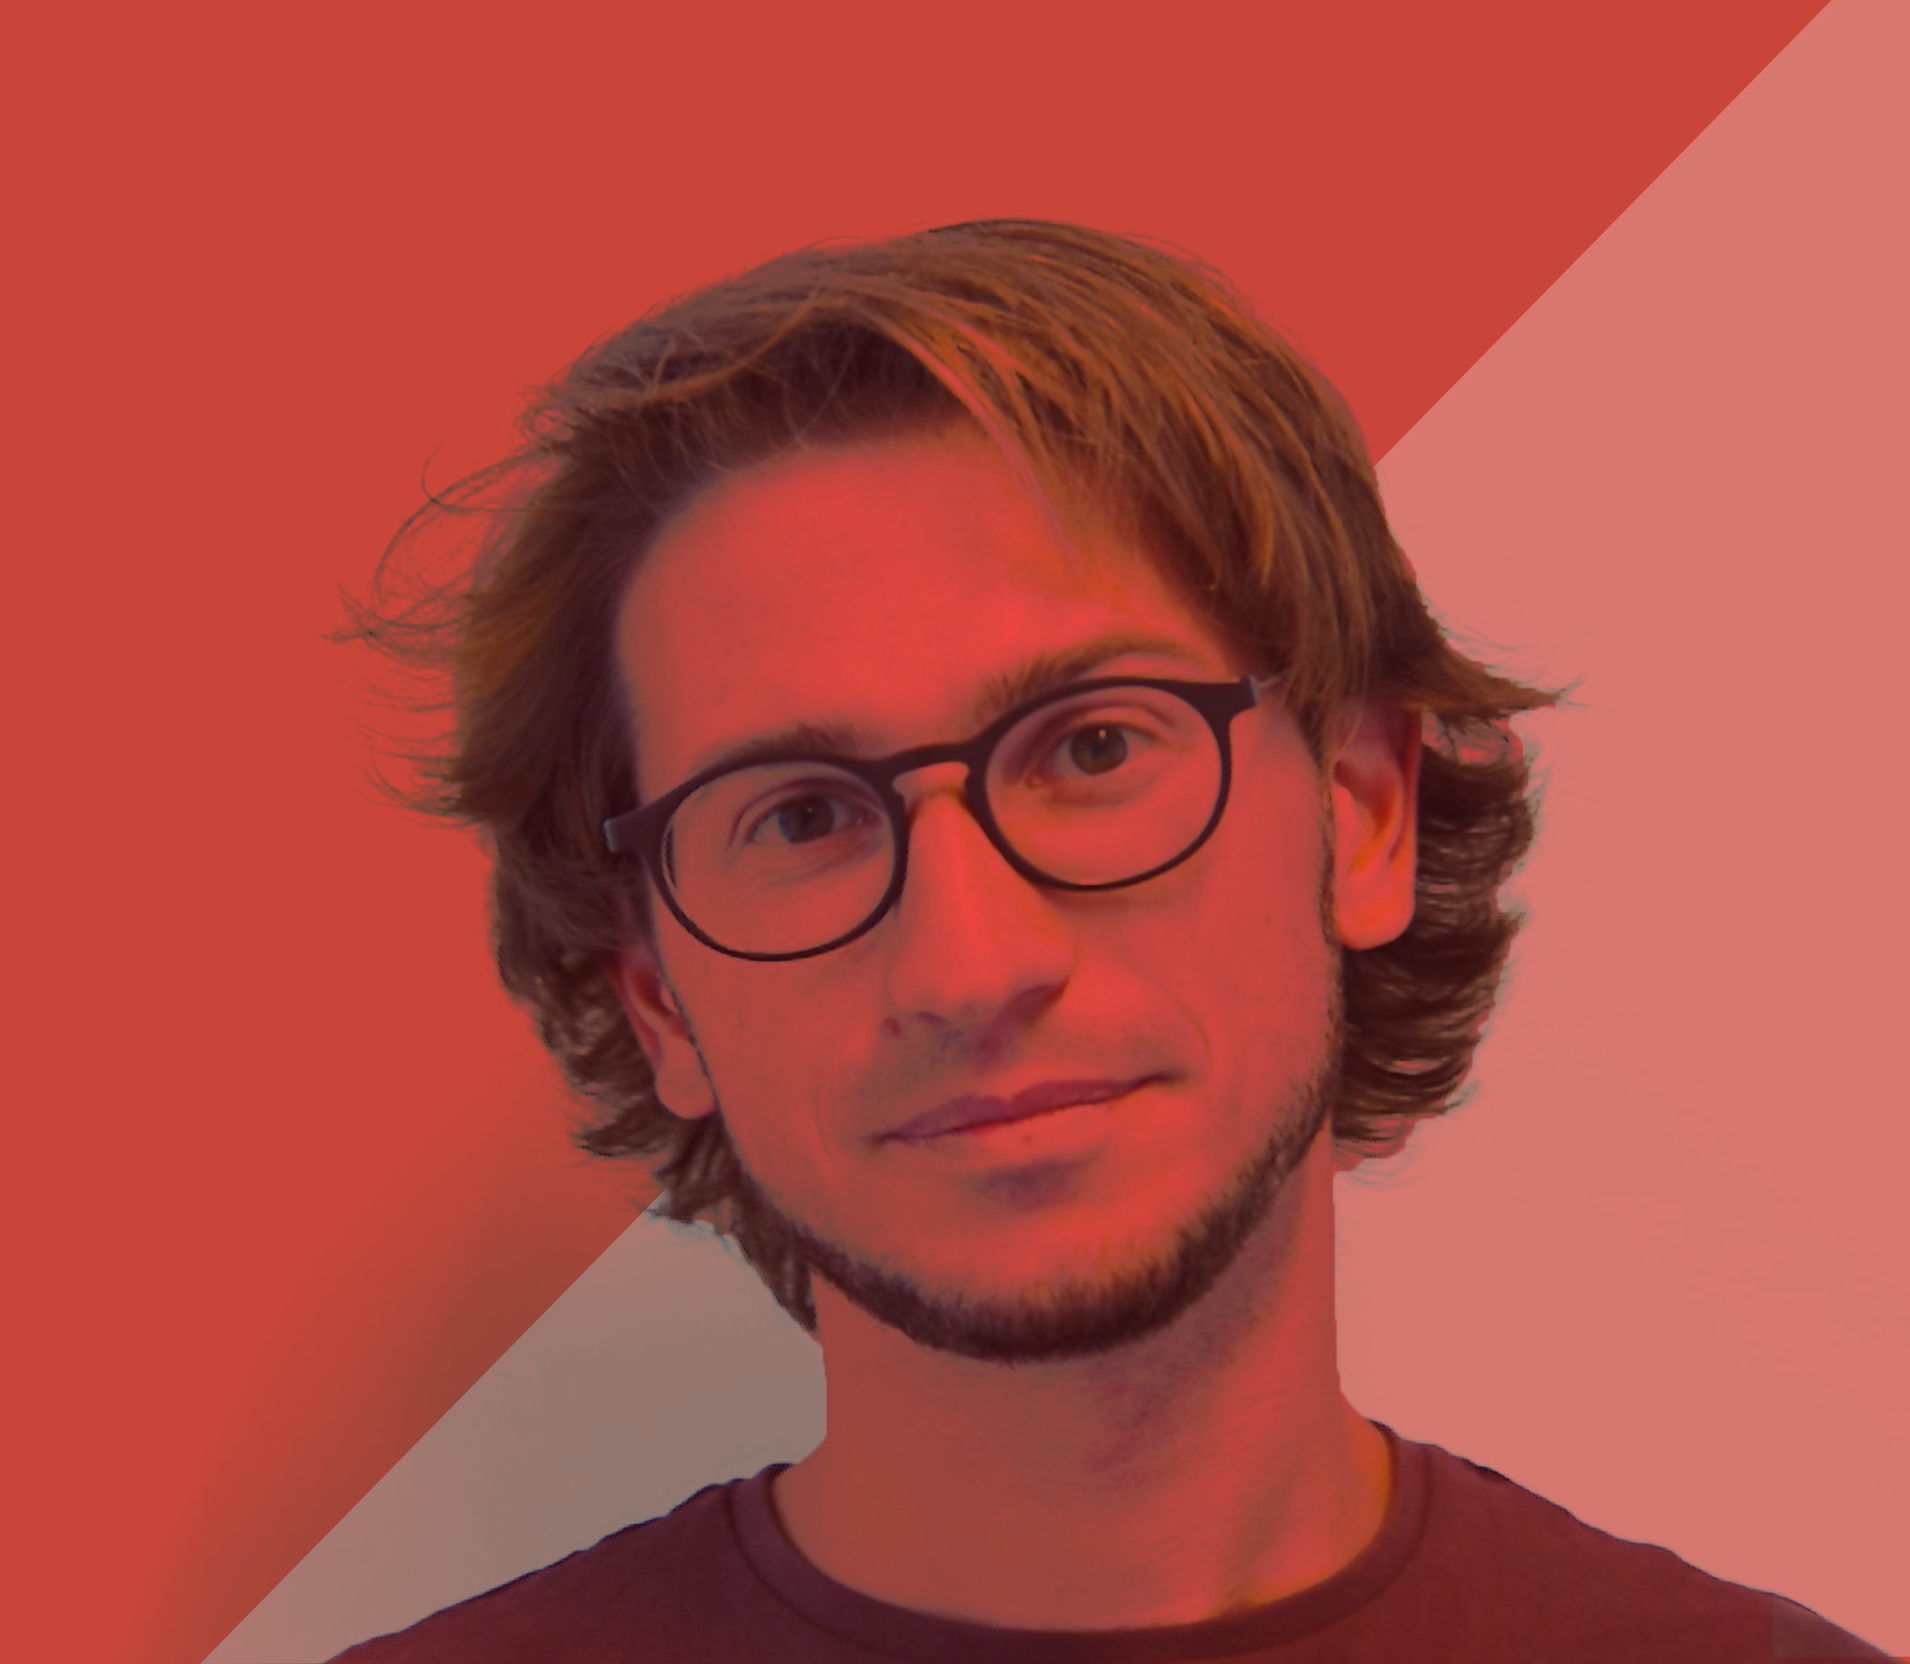
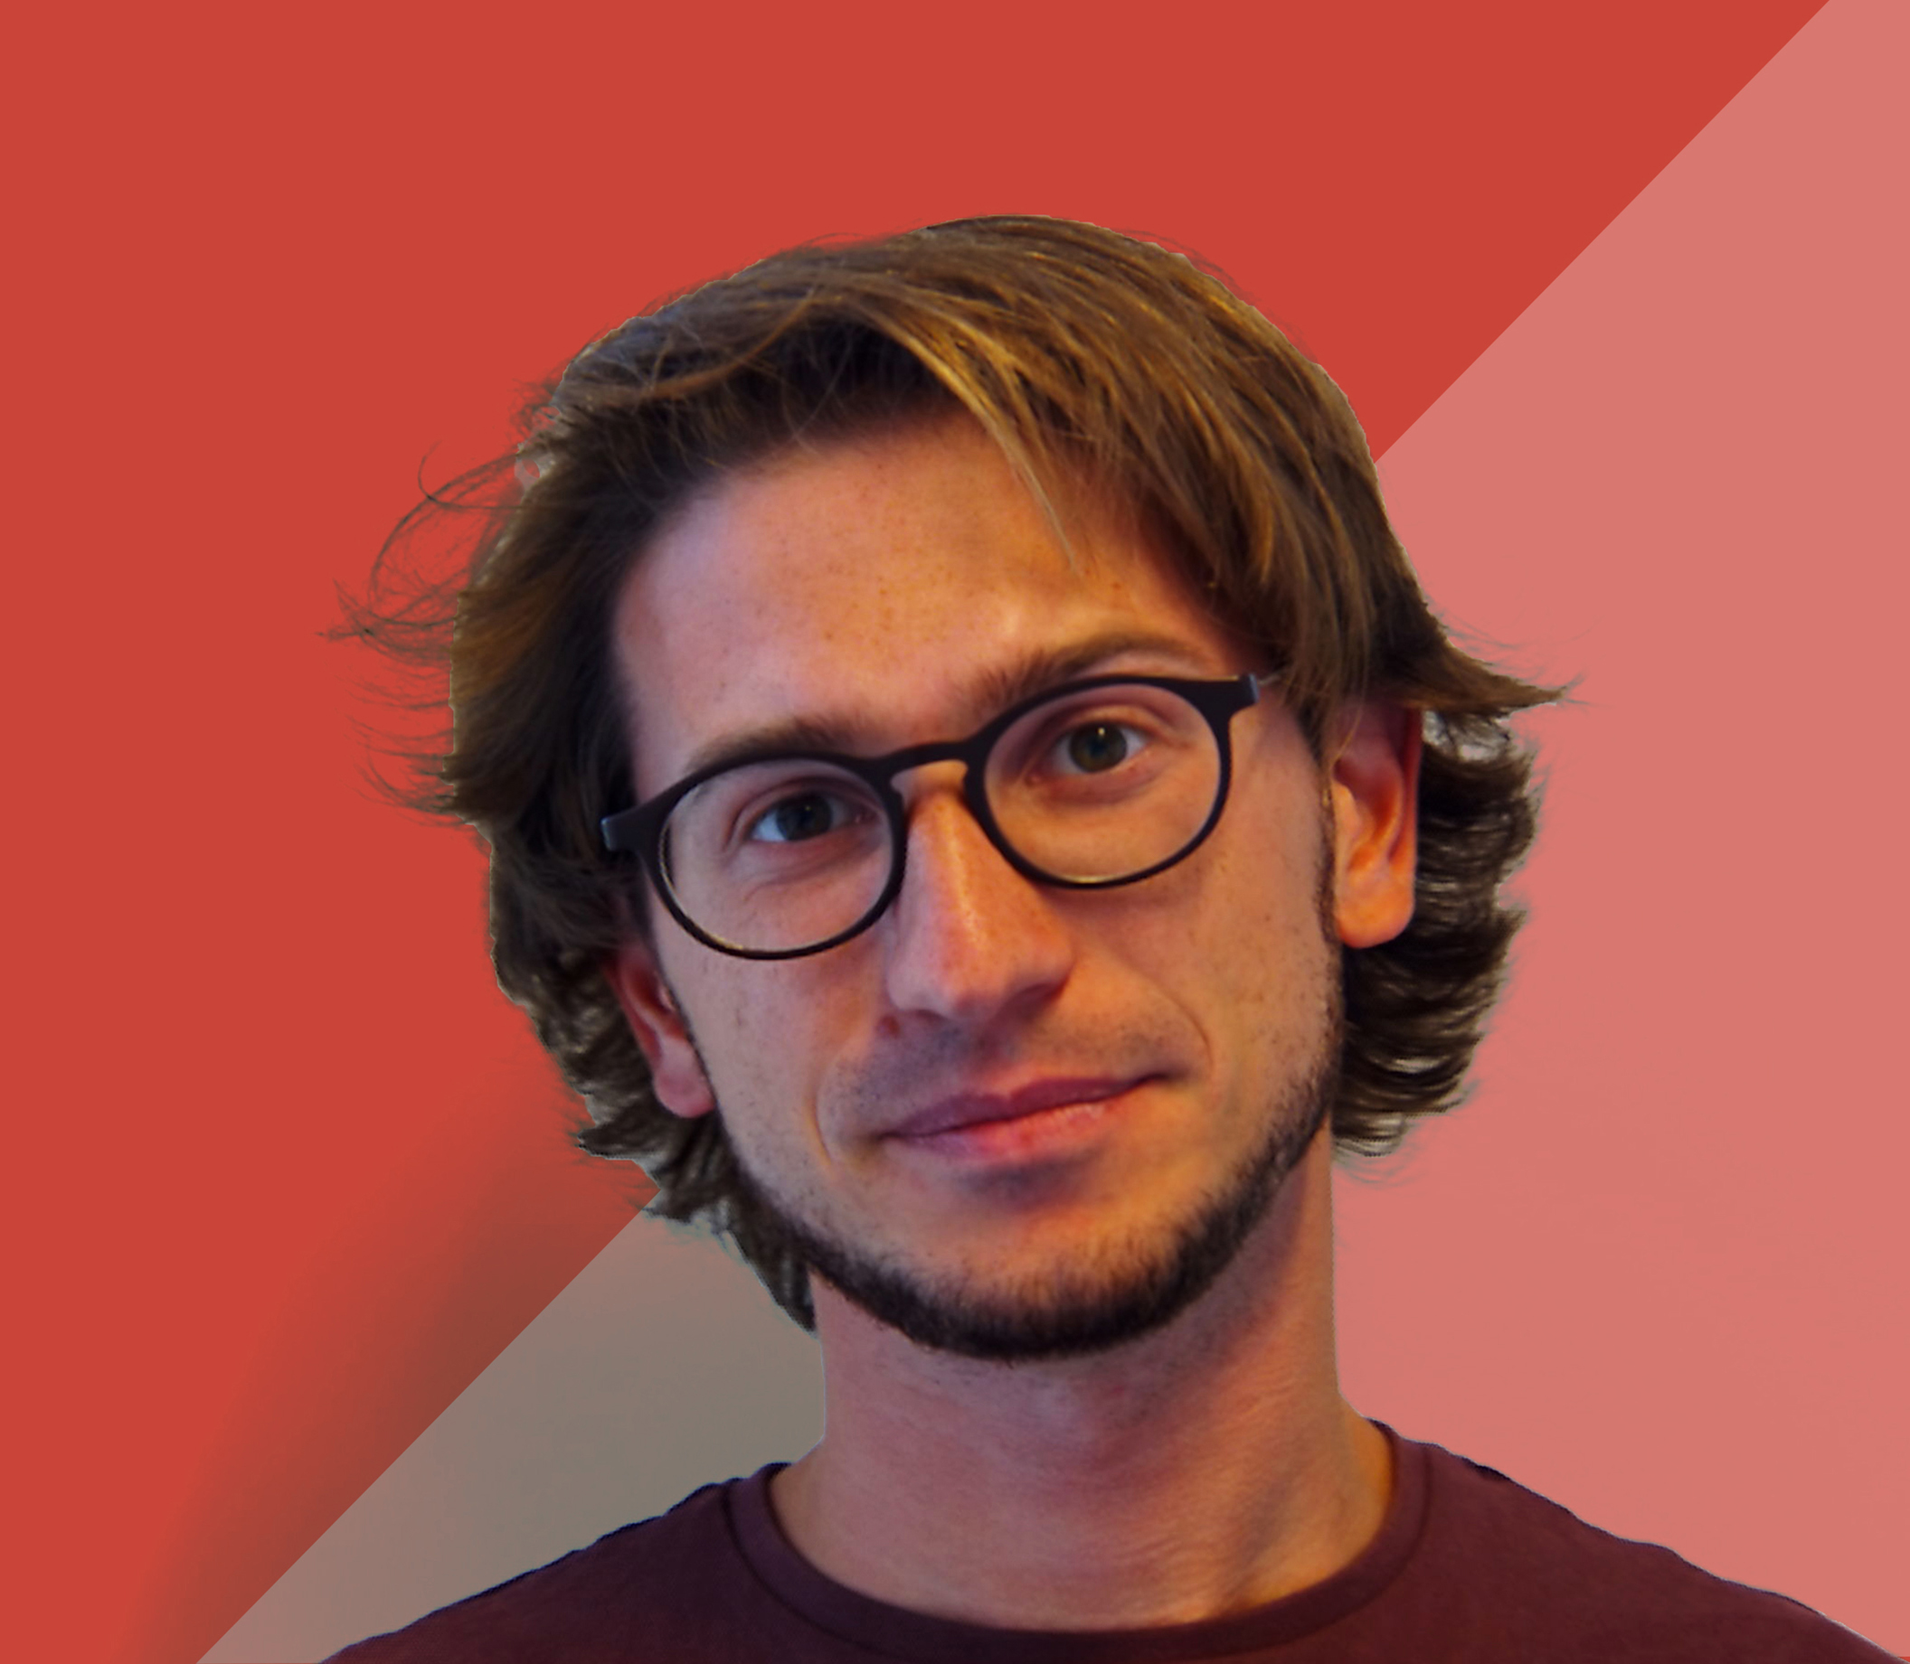
big website update

diff --git a/css/style.css b/css/style.css
@@ -203,6 +203,9 @@ a:hover {
 .box > ul a {
   font-weight: 100;
 }
+.box img {
+  max-width: 80%;
+}
 nav {
   position: relative;
   z-index: 10;
@@ -389,11 +392,27 @@ strong {
     order: 3;
   }
 }
-.proj_img {
+img.proj_img {
   max-width: 4em;
   max-height: 4em;
   margin: 0 0.5em;
   display: inline-block;
+  vertical-align: middle;
+}
+.award {
+  font-variant: small-caps;
+  display: block;
+  background: #d8776f;
+  color: #fff;
+}
+.award:before {
+  content: " ";
+  display: inline-block;
+  background: url("../images/award.png") #fff center/contain no-repeat;
+  padding: 2px 5px;
+  margin-right: 5px;
+  height: 20px;
+  width: 20px;
   vertical-align: middle;
 }
 #mainHeader {
@@ -435,8 +454,6 @@ strong {
 }
 #mainHeader .inner {
   background: url("/images/pasquale_lisena.jpg") #ca4539 bottom right no-repeat;
-  -webkit-background-size: contain;
-  -moz-background-size: contain;
   background-size: contain;
   position: relative;
 }

diff --git a/publications.md b/publications.md
@@ -11,55 +11,76 @@ list: [1,2,3]
 
 - Lisena P., [Laaksonen J.](https://people.aalto.fi/jorma.laaksonen) & [Troncy R.](http://www.eurecom.fr/~troncy/)
 **Understanding Videos with Face Recognition: A Complete Pipeline and Applications**.
-To appear in *[Multimedia Systems](https://www.springer.com/journal/530)*, Special Issue on Data-driven Personalisation of Television Content, 2022, Springer.
+To appear in *[Multimedia Systems](https://www.springer.com/journal/530)*, Special Issue on Data-driven Personalisation of Television Content, 15 June 2022, Springer.
 <span class="links" markdown="1">
+[PDF](https://link.springer.com/article/10.1007/s00530-022-00959-x)
 [BIB](./publication/lisena2022facerec.bib)
 [REPO](https://git.io/facerec)
 [DEMO](http://facerec.eurecom.fr/visualizer)
 </span>
 
+- Rebboud Y., Lisena P. & [Troncy R.](http://www.eurecom.fr/~troncy/)
+**Beyond Causality: Representing Event Relations in Knowledge Graphs**.
+In *[23rd International Conference on Knowledge Engineering and Knowledge Management](https://ekaw2022.inf.unibz.it/)*, 26-29 September 2022, Bolzano (Italy).
+<span class="links" markdown="1">
+[RESOURCE](https://purl.org/faro)
+</span>
 
 - Lisena P. and [Mero&ntilde;o-Pe&ntilde;uela A.](https://www.albertmeronyo.org/). **SPARQL Endpoints and Web API (SWApi)**. In *[22nd International Conference on Web Engineering (ICWE)](https://icwe2022.webengineering.org/)*, Tutorial Track,  Bari, Italy, 5-8 July, 2022.
 <span class="links" markdown="1">
+[PDF](https://www.eurecom.fr/publication/6954)
 [BIB](./publication/lisena2022swapi.bib)
 [SITE](https://api4kg.github.io/swapi-tutorial/)
 </span>
 
 
-- Lisena	P., Schwabe	D.,	van Erp	M.,
-[Troncy R.](http://www.eurecom.fr/~troncy/), Tullett	W.,	Leemans I.,	Marx L.  &	Ehrich S.
+- <span class="award">Best Resource Paper Award</span>
+Lisena	P., Schwabe	D.,	[van Erp M.](https://mariekevanerp.com/),
+[Troncy R.](http://www.eurecom.fr/~troncy/), Tullett	W.,	[Leemans I.](https://ingerleemans.wordpress.com/),	Marx L.  &	Ehrich S.
 **Capturing the Semantics of Smell: The Odeuropa Data Model for Olfactory Heritage Information**. In *[19th Extended Semantic Web Conference (ESWC)](https://2022.eswc-conferences.org/)*, Resource Track, Hersonissos, Greece, May 29 - June 2, 2022.
 <span class="links" markdown="1">
-[PDF](https://www.eurecom.fr/publication/6856/download/data-publi-6856.pdf)
+[PDF](https://www.eurecom.fr/publication/6856)
 [BIB](./publication/lisena2022odeuropa_model.bib)
 [REPO](https://github.com/Odeuropa/ontology)
+[SLIDES](http://bit.ly/odeuropa-eswc22)
 </span>
 
-- Lisena P., [Mero&ntilde;o-Pe&ntilde;uela A.](https://www.albertmeronyo.org/) & [Troncy R.](http://www.eurecom.fr/~troncy/) **MIDI2vec: Learning MIDI Embeddings for Reliable Prediction of Symbolic Music Metadata**. To appear in *[Semantic Web Journal](https://content.iospress.com/journals/semantic-web)*, Special issue on Deep Learning for Knowledge Graphs, vol.13, no.3, pp. 357-377, IOSPress, 6 April 2022.
+- Lisena P., [Mero&ntilde;o-Pe&ntilde;uela A.](https://www.albertmeronyo.org/) & [Troncy R.](http://www.eurecom.fr/~troncy/) **MIDI2vec: Learning MIDI Embeddings for Reliable Prediction of Symbolic Music Metadata**. In *[Semantic Web Journal](https://content.iospress.com/journals/semantic-web)*, Special issue on Deep Learning for Knowledge Graphs, vol.13, no.3, pp. 357-377, IOSPress, 6 April 2022.
 <span class="links" markdown="1">
 [PDF](http://doi.org/10.3233/SW-210446)
-[BIB](./publication/lisena2021midi2vec.bib)
+[BIB](./publication/lisena2022midi2vec.bib)
 [REPO](http://git.io/midi2vec)
 </span>
 
 ## 2021
+
+- Lisena P., [Mero&ntilde;o-Pe&ntilde;uela A.](https://www.albertmeronyo.org/) & [Troncy R.](http://www.eurecom.fr/~troncy/) **MIDI Representation with Graph Embeddings**. In [_International Society for Music Information Retrieval Conference (ISMIR)_](https://ismir2021.ismir.net/), Late-Breaking Demo Track, November 8-12, 2021.
+<span class="links" markdown="1">
+[PDF](https://www.eurecom.fr/publication/6741)
+[BIB](./publication/lisena2021midi2vec.bib)
+[REPO](http://git.io/midi2vec)
+[SLIDES](https://docs.google.com/presentation/d/1Ag8E8-cv_swEZtyqZ42G2Q_RbD6U3b3hvxW5PRka1Cw)
+[POSTER](https://drive.google.com/file/d/16M__YwD-VTHOlDUddaOiVG3BVFEvEtqL/)
+</span>
 
 - [Madaghiele V.](https://www.linkedin.com/in/vincenzo-madaghiele), Lisena P. & [Troncy R.](http://www.eurecom.fr/~troncy/). **MINGUS: Melodic Improvisation Neural Generator Using Seq2Seq**. In [_International Society for Music Information Retrieval Conference (ISMIR)_](https://ismir2021.ismir.net/), November 8-12, 2021.
 <span class="links" markdown="1">
 [PDF](https://www.eurecom.fr/fr/publication/6622)
 [BIB](./publication/madaghiele2021mingus.bib)
 [REPO](https://git.io/mingus)
+[SLIDES](https://docs.google.com/presentation/d/1CuBn6hsr0rt23kK-HGoPgkSmF47sg-zs)
 </span>
 
 - [Ehrhart, T.](https://ehrh.art/), Lisena P. & [Troncy R.](http://www.eurecom.fr/~troncy/) **KG Explorer: a Customisable Exploration Tool for Knowledge Graphs**. In *[Visualization and Interaction for Ontologies and Linked Data (VOILA)](http://voila2021.visualdataweb.org/)*, colocated with [ISWC 2021](https://iswc2021.semanticweb.org/), October 25, 2021.
 <span class="links" markdown="1">
 [PDF](https://www.eurecom.fr/publication/6681/download/data-publi-6681.pdf)
 [BIB](./publication/ehrhart2021kgexplorer.bib)
+[SLIDES](https://bit.ly/kgexplorer2021)
 </span>
 
-- [Mero&ntilde;o-Pe&ntilde;uela A.](https://www.albertmeronyo.org/), Lisena P., Martínez-Ortiz C. **Web Data APIs for Knowledge Graphs: Easing Access to Semantic Data for Application Developers**. In *[Synthesis Lectures on Data, Semantics, and Knowledge](https://www.morganclaypool.com/toc/dsk/12/1)*, Morgan & Claypool Publishers, September, 2021.
+- [Mero&ntilde;o-Pe&ntilde;uela A.](https://www.albertmeronyo.org/), Lisena P., Martínez-Ortiz C. **Web Data APIs for Knowledge Graphs: Easing Access to Semantic Data for Application Developers**. In *[Synthesis Lectures on Data, Semantics, and Knowledge](https://www.springer.com/series/16928)*, Springer Cham, September, 2021.
 <span class="links" markdown="1">
-[PDF](https://doi.org/10.2200/S01114ED1V01Y202107DSK021)
+[BUY](https://doi.org/10.1007/978-3-031-01917-3)
 [BIB](./publication/merono2021webDataApi.bib)
 [REPO](https://github.com/api4kg/exercises)
 </span>
@@ -92,7 +113,7 @@ Yokohama, Japan [Online], 7–9 May 2021.
 [SLIDES](https://bit.ly/odeuropa-stt21)
 </span>
 
-- West R., Bhagat S., Lisena P., [Mero&ntilde;o-Pe&ntilde;uela A.](https://www.albertmeronyo.org/) et al. **Summary of Tutorials at The Web Conference 2021**. In *[The Web Conference 2021 (TheWebConf)](https://thewebconf.org/www2021/)**, Companion Proceedings, Ljubljana, Slovenia, 19-23 April 2021.
+- West R., Bhagat S., Lisena P., [Mero&ntilde;o-Pe&ntilde;uela A.](https://www.albertmeronyo.org/) et al. **Summary of Tutorials at The Web Conference 2021**. In *[The Web Conference 2021 (TheWebConf)](https://thewebconf.org/www2021/)*, Companion Proceedings, Ljubljana, Slovenia, 19-23 April 2021.
 <span class="links" markdown="1">
 [PDF](https://dl.acm.org/doi/10.1145/3442442.3453701)
 [BIB](./publication/tutorial2021webconf.bib)

diff --git a/activity.md b/activity.md
@@ -12,13 +12,18 @@ description: "Teaching, talks, reviews"
 - **Introduction to Data Bases**, EURECOM, Spring 2023 - now
 - **[Interaction Design and Development of Modern Web Applications (WebInt)](http://www.eurecom.fr/en/course/WebInt-2020Fall)**, JavaScript lecturer, EURECOM,  2017 - now
 
+## PhD supervision
+
+- Rebboud Y., **Semantic Extraction of Event Relations from
+Text with Knowledge Graphs**, EURECOM, March 2022 - now
+
 ## Master student supervision
 
-- Fernandez-Marin, E., **Exploring Semantic Music Catalogs**, EURECOM + Universidad de Zaragoza, September 2016
+- Fernandez-Marin E., **Exploring Semantic Music Catalogs**, EURECOM + Universidad de Zaragoza, September 2016
 <span class="links" markdown="1">
 [SLIDES](https://docs.google.com/presentation/d/1DBP5g9zljmFXSeEKriQCyBT5kridbtgvgQpERD-TPh8)
 </span>
-- Canale, L., **NERD for NexGenTV**, EURECOM + Politecnico di Torino, January 2018
+- Canale L., **NERD for NexGenTV**, EURECOM + Politecnico di Torino, January 2018
 <span class="links" markdown="1">
 [SLIDES](https://docs.google.com/presentation/d/1hSJ5Evs_oMhvIWOBFt6JfAS9uVGK33mIhwUEHirnfqU/edit)
 </span>
@@ -79,15 +84,15 @@ description: "Teaching, talks, reviews"
 Conference Track Chair
 - The Web Conference (TheWebConf), Poster&Demo Track, [2022](https://www2022.thewebconf.org/cfp/posters-demos/)
 
-Program Committes Member
--	International Semantic Web Conference (ISWC), Poster&Demo Track, [2018](http://iswc2018.semanticweb.org/poster-demo-track-pc/index.html), [2019](https://iswc2019.semanticweb.org/poster-demo-track-pc/), [2020](https://iswc2020.semanticweb.org/organization/posters-demos-track-pc/)
--	Extended Semantic Web Conference (ESWC), Poster&Demo Track, 2020, 2021
+Program Committe Member
+-	International Semantic Web Conference (ISWC), Poster&Demo Track, [2018](http://iswc2018.semanticweb.org/poster-demo-track-pc/index.html), [2019](https://iswc2019.semanticweb.org/poster-demo-track-pc/), [2020](https://iswc2020.semanticweb.org/organization/posters-demos-track-pc/), [2022](https://iswc2022.semanticweb.org/index.php/poster-demos-track-pc/)
+-	Extended Semantic Web Conference (ESWC), Poster&Demo Track, 2020, 2021, 2022
 -	Workshop on NLP for Music and Audio ([NLP4MusA](https://sites.google.com/view/nlp4musa/committee)), 2020, 2021
 -	International Conference on Knowledge Capture (K-CAP), [2019](http://www.k-cap.org/2019/programme-committee/index.html), [2021](https://www.k-cap.org/2021/index.html)
 -	Workshop on Semantic Applications for Audio and Music (SAAM), [2018](https://saam.semanticaudio.ac.uk/call)
 -	International Conference on Digital Libraries for Musicology (DLfM), [2018](https://dlfm.web.ox.ac.uk/5th-international-conference-digital-libraries-musicology-paris-2018)
-- ACM HyperText, [2021](https://ht.acm.org/ht2021/organisation/)
-- Workshop on Ontology Design and Patterns (WOP), [2021](http://ontologydesignpatterns.org/wiki/WOP:2021)
+- ACM HyperText, [2021](https://ht.acm.org/ht2021/organisation/), [2022](https://ht.acm.org/ht2022/program-committee/)
+- Workshop on Ontology Design and Patterns (WOP), [2021](http://ontologydesignpatterns.org/wiki/WOP:2021), [2022]
 
 Reviewer
 -	Knowledge-aware and Conversational Recommender Systems Workshop (KARS @ ACM RecSys) 2018 (sub-reviewer)

diff --git a/index.md b/index.md
@@ -10,22 +10,28 @@ current_proj:
     name: 'kFLOW'
     uri: https://anr-kflow.github.io/
 news:
-  - I will attend [ESWC'22](https://2022.eswc-conferences.org/) presenting the Odeuropa Data Model (29 May - 2 June)
-  - The Tutorial [SWApi](https://api4kg.github.io/swapi-tutorial/) lands to Bari at [ICWE'22](https://icwe2022.webengineering.org/) (5-8 July)
+  - I will attend [EKAW'22](https://ekaw2022.inf.unibz.it/) presenting the [FARO ontology](https://purl.org/faro) for event relationships (26-29 September)
 ---
 
 <section class="box" markdown="1">
 # About me.
 
 I am currently a Research Fellow in the [Data Science department](https://ds.eurecom.fr/) at [EURECOM](http://www.eurecom.fr/), in the Data2Knowledge group.
-I got a PhD in Computer Science in 2019, with a thesis on [_Knowledge-based music recommendation: Models, algorithms and exploratory search_](./research#phd-thesis).
+I got a PhD in Computer Science in 2019, with a thesis on [_Knowledge-based music recommendation: Models, algorithms and exploratory search_](./research#phd-thesis). In 2021, I obtained an ANR JCJC as project coordinator for the [kFLOW project](https://anr-kflow.github.io/).
 
-My [research fields](./research) involves Knowledge Graphs, Knowledge Engineering and Recommender System. Currently working on [Odeuropa](https://odeuropa.eu/) and [ANTRACT](https://antract.hypotheses.org/).
+My [research fields](./research) involves Knowledge Graphs, Knowledge Engineering and Recommender System. Currently working on [Odeuropa](https://odeuropa.eu/) and [kFLOW](https://anr-kflow.github.io/).
 </section>
 
 <section class="box" markdown="1">
 
 # Selected works.
+2022 - Capturing the Semantics of Smell: The Odeuropa Data Model for Olfactory Heritage Information
+<span class="links inline" markdown="1">
+[PDF](http://doi.org/10.3233/SW-210446)
+</span>  
+<span class="award">Best Resource Paper Award</span>
+
+
 2022 - MIDI2vec: Learning MIDI Embeddings for Reliable Prediction of Symbolic Music Metadata
 <span class="links inline" markdown="1">
 [PDF](http://doi.org/10.3233/SW-210446)
@@ -40,5 +46,13 @@ My [research fields](./research) involves Knowledge Graphs, Knowledge Engineerin
 <span class="links inline" markdown="1">
 [PDF](http://www.eurecom.fr/fr/publication/5565/download/data-publi-5565.pdf)
 </span>  
+
+</section>
+
+<section class="box" markdown="1">
+
+# My Book.
+
+[![Web Data APIs for Knowledge Graphs](https://media.springernature.com/full/springer-static/cover-hires/book/978-3-031-01917-3)](https://link.springer.com/book/10.1007/978-3-031-01917-3)
 
 </section>

diff --git a/research.md b/research.md
@@ -16,14 +16,6 @@ list: [1,2,3]
 
 
 <section class="project" markdown="1">
-**ANTRACT: Analyse transdisciplinaire des actualités filmées** <span class="sub">FR ANR (2018-2021)</span>    
-I work on web-based face recognition strategies on historical videos.
-<span class="links" markdown="1">
-[SITE](https://antract.hypotheses.org/1)
-</span>
-</section>
-
-<section class="project" markdown="1">
 ![Odeuropa](./images/logo/odeuropa.jpg)
 **Odeuropa** <span class="sub">EU H2020 (2021-2024)</span>    
 Preserve the European Olfactory Heritage.
@@ -44,6 +36,15 @@ I am the scientific co-ordinator.
 </section>
 
 # Past Projects.
+
+<section class="project" markdown="1">
+**ANTRACT: Analyse transdisciplinaire des actualités filmées** <span class="sub">FR ANR (2018-2022)</span>    
+I work on web-based face recognition strategies on historical videos.
+<span class="links" markdown="1">
+[SITE](https://antract.hypotheses.org/1)
+</span>
+</section>
+
 
 <section class="project" markdown="1">
 ![SILKNOW](./images/logo/silknow.png)
